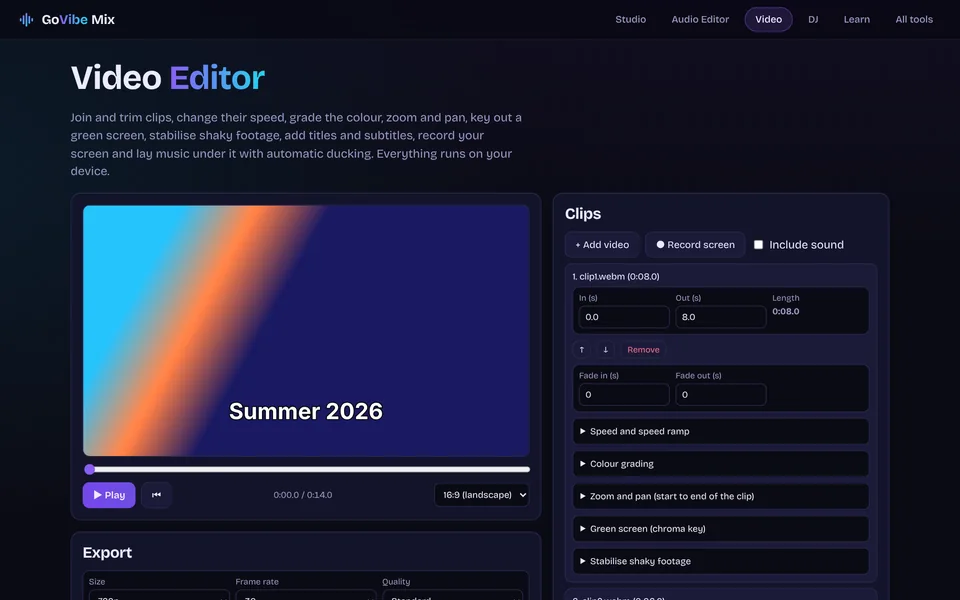
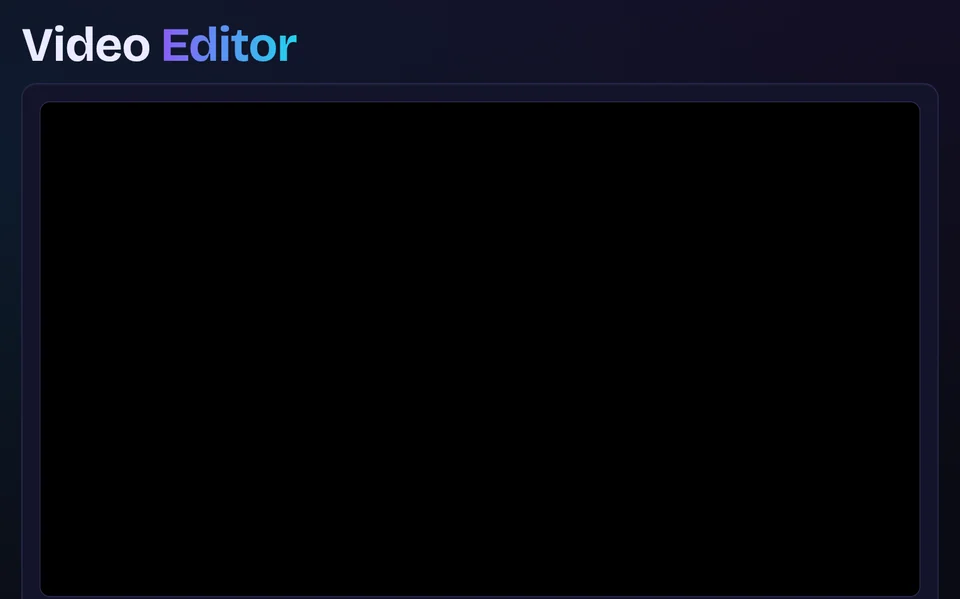
Home: video card and screenshot show the new tabs
Claude-Session: https://claude.ai/code/session_015FdqwN8M4ShayMkwiuPJAE

diff --git a/index.html b/index.html
@@ -81,7 +81,7 @@
   <section class="grp g-edit" aria-labelledby="h-g-edit">
     <div class="gh"><h2 id="h-g-edit">Edit and finish</h2><p>Clean up, cut, convert and bring your tracks to release level.</p></div>
     <div class="tools n4">
-      <a class="card tool wide" href="video.html"><span class="shot"><img src="images/shot-video.webp" alt="The Video Editor with a title over a clip" width="960" height="600" loading="lazy" decoding="async"></span><span class="tx"><h3>Video Editor</h3><p>Join and trim clips, add fades, transitions, text and music, then export.</p><span class="go"><svg aria-hidden="true"><use href="#i-arrow"/></svg><span class="sr">Open Video Editor</span></span></span></a>
+      <a class="card tool wide" href="video.html"><span class="shot"><img src="images/shot-video.webp" alt="The Video Editor with Auto, Guided and Pro tabs" width="960" height="600" loading="lazy" decoding="async"></span><span class="tx"><h3>Video Editor</h3><p>Let Auto edit your footage, pick a template, or take full control, then export.</p><span class="go"><svg aria-hidden="true"><use href="#i-arrow"/></svg><span class="sr">Open Video Editor</span></span></span></a>
       <a class="card tool" href="editor.html"><span class="shot"><img src="images/shot-editor.webp" alt="The Audio Editor with part of a waveform selected" width="960" height="600" loading="lazy" decoding="async"></span><span class="tx"><h3>Audio Editor</h3><p>Trim, cut, fade, change speed and pitch, EQ and noise gate. Export WAV or MP3.</p><span class="go"><svg aria-hidden="true"><use href="#i-arrow"/></svg><span class="sr">Open Audio Editor</span></span></span></a>
       <a class="card tool" href="master.html"><span class="shot"><img src="images/shot-master.webp" alt="The mastering page showing loudness measurements" width="960" height="600" loading="lazy" decoding="async"></span><span class="tx"><h3>Mastering <span class="new">New</span></h3><p>Measure LUFS and true peak, match streaming loudness, limit, compare and export.</p><span class="go"><svg aria-hidden="true"><use href="#i-arrow"/></svg><span class="sr">Open Mastering</span></span></span></a>
       <a class="card tool" href="convert.html"><span class="shot"><img src="images/shot-convert.webp" alt="The audio converter with two files converted to MP3" width="960" height="600" loading="lazy" decoding="async"></span><span class="tx"><h3>Audio converter <span class="new">New</span></h3><p>Convert audio to MP3 or WAV, one file or many, then download a ZIP.</p><span class="go"><svg aria-hidden="true"><use href="#i-arrow"/></svg><span class="sr">Open Audio converter</span></span></span></a>

diff --git a/sw.js b/sw.js
@@ -1,7 +1,7 @@
 /* GoVibe Mix service worker: lets the site open offline after the first visit.
  * Network first (so a new deploy shows up right away), cached copy as the fallback.
  * Only same-origin GET requests are handled; API calls and downloads are never touched. */
-const CACHE = 'govibe-v49';
+const CACHE = 'govibe-v50';
 const PRECACHE = [
   'index.html', 'editor.html', 'video.html', 'dj.html', 'lessons.html', 'privacy.html', 'convert.html', 'record.html', 'metronome.html', 'looper.html', 'js/looper.js', 'chords.html', 'js/chords.js', 'js/chordspage.js', 'js/metronome.js', 'js/spectrum.js', 'visualizer.html', 'cutter.html', 'booster.html', 'slowed.html', 'pitch.html', 'js/slowed.js', 'js/pitch.js', 'js/stretch.js', 'silence.html', 'mono.html', 'tone.html', 'video-to-audio.html', 'js/utils.js', 'audio.html', 'js/audio.js', 'js/quick.js', 'js/cutter.js', 'js/boost.js', 'js/visualizer.js', 'studio.html', 'bpm.html', 'about.html', 'inside.html', 'faq.html', 'blog.html', 'blog-beatmatching.html', 'blog-camelot.html', 'blog-record-mix.html', 'blog-slowed-reverb.html', 'blog-change-key.html', 'blog-cut-mp3.html', 'blog-louder.html', 'blog-clean-audio.html', 'blog-vertical-video.html', 'terms.html',
   'css/style.css',
